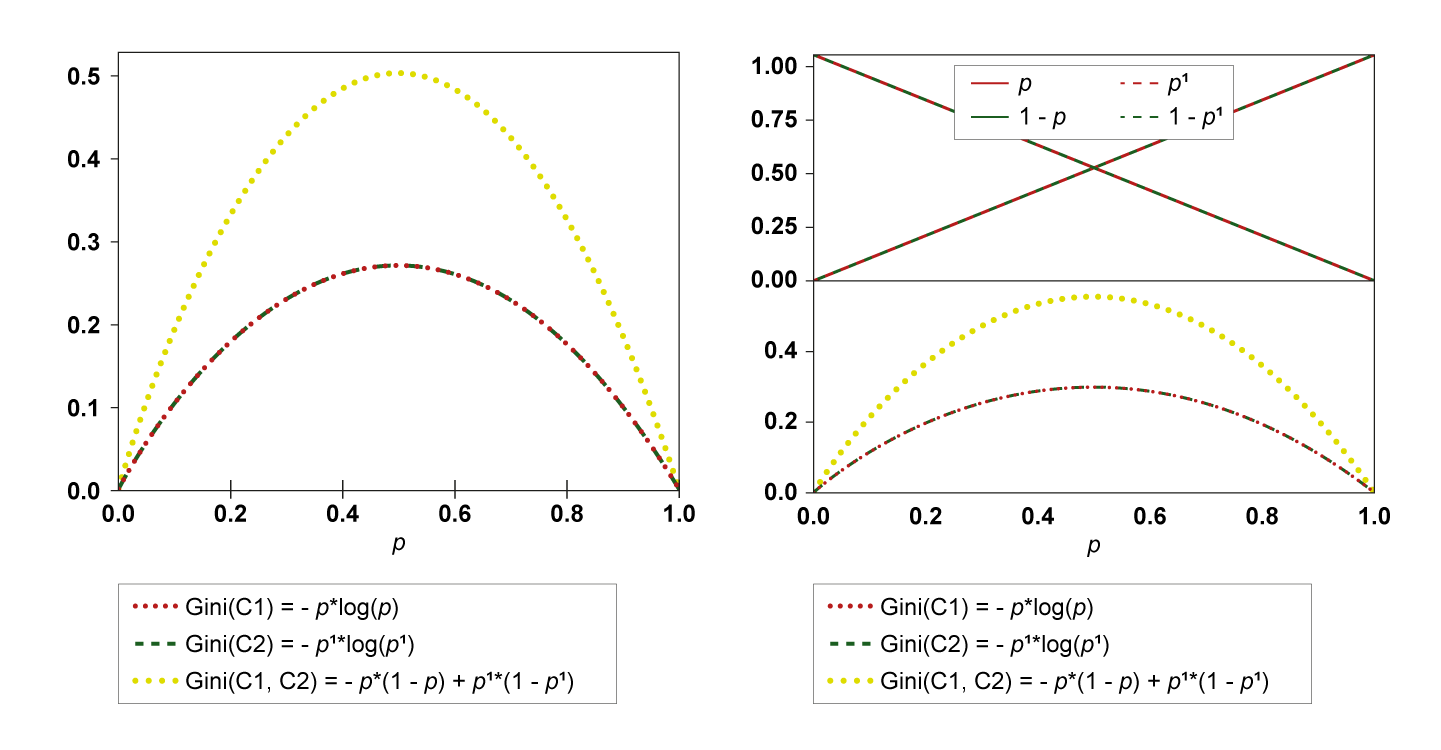
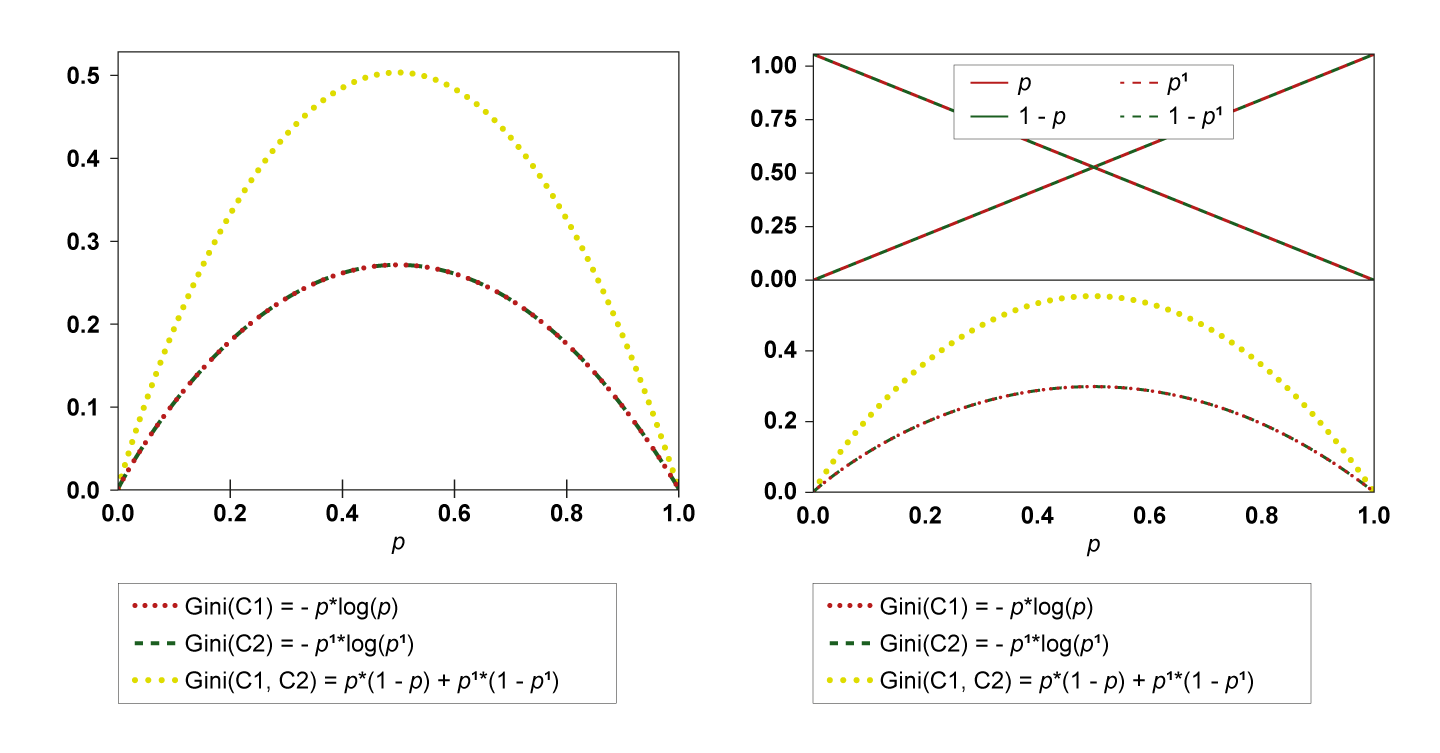
transcripts in units 3 and 4, unit 1 and 2 image fixes and done dones

diff --git a/overrides/main.html b/overrides/main.html
@@ -1,6 +1,6 @@
 {% extends "base.html" %}
 
 {% block announce %}
-    <div id="versionIndicator"><b>Version:</b> 05.11.21.a</div>
+    <div id="versionIndicator"><b>Version:</b> 12.11.21.a</div>
     <img id="customlogo" src="../../../img/logo.svg" alt="University of Leeds logo.">
 {% endblock %}

diff --git a/docs/content/unit3/03_01g_bisecting_K_means.md b/docs/content/unit3/03_01g_bisecting_K_means.md
@@ -55,12 +55,13 @@ Below in figure 3.11, we show results of bisecting K-means on the problem that w
 
 ##Agglomerative clustering
 
-<iframe title="Cluster analysis 2" width="450" height="300" frameborder="0" scrolling="auto" marginheight="0" marginwidth="0" src=" https://mymedia.leeds.ac.uk/Mediasite/Play/1bb96ffc6168418d83d6bb6fbe62b9de1d" allowfullscreen msallowfullscreen allow="fullscreen"></iframe>
+<iframe title="Cluster analysis 2" width="450" height="300" frameborder="0" scrolling="auto" marginheight="0" marginwidth="0" src=" https://mymedia.leeds.ac.uk/Mediasite/Play/2271688c6f5a48a080976624fc23fc921d" allowfullscreen msallowfullscreen allow="fullscreen"></iframe>
+
+<a href="https://minerva.leeds.ac.uk/bbcswebdav/xid-22866513_4" target="_blank">Download transcript (PDF).</a>
 
 You can download the <a href="https://minerva.leeds.ac.uk/bbcswebdav/xid-18826428_4" target="_blank">slides shown in the video.</a>
 
 Slides are reproduced from Tan et al (2019), <a href="https://www-users.cs.umn.edu/~kumar001/dmbook/index.php#item4" target="_blank">Introduction to Data Mining</a>, with kind permission of the authors.
-
 
 In partitional clustering techniques, such as the K-means, the clusters are assumed to be partitional, i.e. they are well-separated from each other. If they are not then the algorithm performance will be put under pressure and the results might not be satisfactory. This is one of the intrinsic limitations of such approaches.
 
@@ -132,6 +133,8 @@ Please refer to section 5.3 of Tan et al 2019.
 Evaluating clusters is an important step towards improving and comparing different clustering algorithms as well as to improve the obtained clusters. Mainly, we can adopt two approaches for cluster evaluation; supervised approach or unsupervised approach.
 
 <iframe title="Clusters part 3" width="450" height="300" frameborder="0" scrolling="auto" marginheight="0" marginwidth="0" src="https://mymedia.leeds.ac.uk/Mediasite/Play/2271688c6f5a48a080976624fc23fc921d" allowfullscreen msallowfullscreen allow="fullscreen"></iframe>
+
+<a href="https://minerva.leeds.ac.uk/bbcswebdav/xid-22866512_4" target="_blank">Download transcript (PDF).</a>
 
 You can download the <a href="https://minerva.leeds.ac.uk/bbcswebdav/xid-18826428_4" target="_blank">slides shown in the video (PPT)here</a>.
 

diff --git a/docs/content/unit4/04_01f_sgd_exercises.md b/docs/content/unit4/04_01f_sgd_exercises.md
@@ -33,9 +33,15 @@ You can download the spreadsheets Abdulrahman refers to in the videos below:
 
 <iframe title="video 6 (Example of a linear regression model, part 1) " width="450" height="300" frameborder="0" scrolling="auto" marginheight="0" marginwidth="0" src="https://mymedia.leeds.ac.uk/Mediasite/Play/031ebb9609ad4e4882c3f0ab85781e3e1d" allowfullscreen msallowfullscreen allow="fullscreen"></iframe>
 
+<a href="https://minerva.leeds.ac.uk/bbcswebdav/xid-22914403_4" target="_blank">Download transcript (PDF).</a>
+
  <iframe title="video 7 (Example of a linear regression model, part 2) " width="450" height="300" frameborder="0" scrolling="auto" marginheight="0" marginwidth="0" src="https://mymedia.leeds.ac.uk/Mediasite/Play/8d4658ebca5e45619f40502216b597ea1d" allowfullscreen msallowfullscreen allow="fullscreen"></iframe>
 
-<iframe title="video 8 (Example of a linear regression model, part 3" width="450" height="300" frameborder="0" scrolling="auto" marginheight="0" marginwidth="0" src="https://mymedia.leeds.ac.uk/Mediasite/Play/1d7e63fe54454aaaa93a7669c613a7e41d" allowfullscreen msallowfullscreen allow="fullscreen"></iframe>   
+ <a href="https://minerva.leeds.ac.uk/bbcswebdav/xid-22914404_4" target="_blank">Download transcript (PDF).</a>
+
+<iframe title="video 8 (Example of a linear regression model, part 3" width="450" height="300" frameborder="0" scrolling="auto" marginheight="0" marginwidth="0" src="https://mymedia.leeds.ac.uk/Mediasite/Play/1d7e63fe54454aaaa93a7669c613a7e41d" allowfullscreen msallowfullscreen allow="fullscreen"></iframe>
+
+<a href="https://minerva.leeds.ac.uk/bbcswebdav/xid-22914409_4" target="_blank">Download transcript (PDF).</a>  
 
 ##Simple linear regression models: lesson summary
 

diff --git a/docs/content/unit2/02_03_DT_vertebrate.md b/docs/content/unit2/02_03_DT_vertebrate.md
@@ -125,7 +125,7 @@ Table: Mammals class dataset with necessary and sufficient features.
 
 Watch this video to see how we can easily build a decision tree model in RapidMiner.
 
-<iframe title="DBuilding a decision tree in RapidMiner" width="450" height="300" frameborder="0" scrolling="auto" marginheight="0" marginwidth="0" src="https://mymedia.leeds.ac.uk/Mediasite/Play/74a17cc9f1914e38b34229bbd4a0c3ac1d" allowfullscreen msallowfullscreen
+<iframe title="DBuilding a decision tree in RapidMiner" width="450" height="300" frameborder="0" scrolling="auto" marginheight="0" marginwidth="0" src="https://mymedia.leeds.ac.uk/Mediasite/Play/c1f13a30982f4e99a3bcce27fd16e77d1d" allowfullscreen msallowfullscreen
  allow="fullscreen"></iframe>
 
 <a href="https://minerva.leeds.ac.uk/bbcswebdav/xid-22735112_4" target="_blank">Download transcript (PDF).</a>
@@ -175,7 +175,7 @@ So far we have seen how decision trees work and how they are inducted (trained).
 
 ![Scatter graph showing binary class balanced data with non-linearly separable decision boundaries quartiles. The two classes are distributed into four crossed quarters.](images/DS_IMG051.png)
 
-**Figure 2.37.** Scatter graph showing binary class balanced data with non-linearly separable decision boundaries quartiles. 
+**Figure 2.37.** Scatter graph showing binary class balanced data with non-linearly separable decision boundaries quartiles.
 
 ![Left: Scatter graph showing binary class balanced data with a linearly separable diagonal decision boundary. Right: Decision tree (DT) expected to concisely express binary class balanced data with a linearly separable diagonal decision boundary.](images/DS_IMG053+54.png)
 

diff --git a/docs/content/unit4/04_01c_loss_error_cos_function.md b/docs/content/unit4/04_01c_loss_error_cos_function.md
@@ -9,6 +9,8 @@ Watch the following video on loss function optimisation.
 <iframe title="Loss function for regression" width="450" height="300" frameborder="0" scrolling="auto" marginheight="0" marginwidth="0" src="https://mymedia.leeds.ac.uk/Mediasite/Play/9a4ab6335e684311b8fbfdd6b42bbc191d" allowfullscreen msallowfullscreen
  allow="fullscreen"></iframe>
 
+<a href="https://minerva.leeds.ac.uk/bbcswebdav/xid-22913894_4" target="_blank">Download transcript (PDF).</a>
+
 Download the following <a href="https://minerva.leeds.ac.uk/bbcswebdav/xid-19081102_4" target="_blank">powerpoint slides</a> used in the video for a summary of what we cover in this unit.
 
 ###Loss function for an individual point
@@ -167,6 +169,8 @@ The above approaches can be applied on any numerical machine learning technique 
 Please watch the following video on the least squares.
 
 <iframe title="Linear regression models" width="450" height="300" frameborder="0" scrolling="auto" marginheight="0" marginwidth="0" src="https://mymedia.leeds.ac.uk/Mediasite/Play/4fad0bce36ad461b8f3d0f950f94e4511d" allowfullscreen msallowfullscreen allow="fullscreen"></iframe>
+
+<a href="https://minerva.leeds.ac.uk/bbcswebdav/xid-22913897_4" target="_blank">Download transcript (PDF).</a>
 
 Download the following <a href="https://minerva.leeds.ac.uk/bbcswebdav/xid-19081102_4" target="_blank">powerpoint slides</a> used in the video for a summary of what we cover in this unit.
 

diff --git a/docs/content/unit4/04_01e_Gradient_decent.md b/docs/content/unit4/04_01e_Gradient_decent.md
@@ -10,6 +10,8 @@ Please watch the following video on gradient descent.
 
 <iframe title="Gradient descent" width="450" height="300" frameborder="0" scrolling="auto" marginheight="0" marginwidth="0" src="https://mymedia.leeds.ac.uk/Mediasite/Play/1306e0c0bf4746888652140ccedeac0b1d" allowfullscreen msallowfullscreen allow="fullscreen"></iframe>
 
+<a href="https://minerva.leeds.ac.uk/bbcswebdav/xid-22914201_4" target="_blank">Download transcript (PDF).</a>
+
 Download the following <a href="https://minerva.leeds.ac.uk/bbcswebdav/xid-19081102_4" target="_blank">powerpoint slides</a> used in the video for a summary of what we cover in this unit.
 
 Here we are talking about a minimum, often complex loss functions have several minima so we will come back to this idea later when we move to the non-linear models towards the end of the unit. We are taking small steps towards the minimum because taking large steps lead to overshooting the minimum or oscillating around it. The size of the step (denoted as $η$) is called the learning rate because it represents how fast a model can learn the solution of the problem. Gradient descent is a numerical optimisation technique so it is an iterative technique that keep working though iterations until it reaches a good enough approximate solution. Reaching a minimum is called **convergence** (a well known concept in calculus).

diff --git a/docs/content/unit1/01_01_what-is-data-science.md b/docs/content/unit1/01_01_what-is-data-science.md
@@ -202,6 +202,8 @@ Note that everything revolves around the data, which is central to the whole pro
 
 First watch the following video, in which Abdulrahman Altahhan introduces data science in more detail. Then move on to read about the different types of data mining tasks.
 
+VID-019:
+
 <p align="center"><iframe title="Data Science Introduction" width="450" height="300" frameborder="0" scrolling="auto" marginheight="0" marginwidth="0" src="https://mymedia.leeds.ac.uk/Mediasite/Play/89c81b0df9f8407786d7b8eea7fa93c01d" allowfullscreen msallowfullscreen allow="fullscreen"></iframe></p>
 
 You can also download the <a href="https://minerva.leeds.ac.uk/bbcswebdav/xid-18739454_4" target="_blank">slides shown in the video (PPT)</a> and the <a href="https://minerva.leeds.ac.uk/bbcswebdav/xid-18826023_4" target="_blank">transcript (PDF) here</a>.

diff --git a/docs/content/unit3/03_03_ensemble_methods.md b/docs/content/unit3/03_03_ensemble_methods.md
@@ -12,6 +12,8 @@ Watch this video to learn more about the concepts of ensemble methods.
 
 <iframe title="Ensemble techniques" width="450" height="300" frameborder="0" scrolling="auto" marginheight="0" marginwidth="0" src=" https://mymedia.leeds.ac.uk/Mediasite/Play/bb7cdadc4c234bd0be580d279c4f80c71d" allowfullscreen msallowfullscreen allow="fullscreen"></iframe>
 
+<a href="https://minerva.leeds.ac.uk/bbcswebdav/xid-22912989_4" target="_blank">Download transcript (PDF).</a>
+
 You can download the <a href="https://minerva.leeds.ac.uk/bbcswebdav/xid-18826426_4" target="_blank">slides shown in the video.</a>
 
 Slides are reproduced from Tan et al (2019), <a href="https://www-users.cs.umn.edu/~kumar001/dmbook/index.php#item4" target="_blank">Introduction to Data Mining</a>, with kind permission of the authors.

diff --git a/docs/content/unit3/03_01c_clusters_loss_function.md b/docs/content/unit3/03_01c_clusters_loss_function.md
@@ -4,6 +4,8 @@ In the following video, Abdulrahman explains the clusters loss function.
 
 <iframe title="Cluster analysis 1" width="450" height="300" frameborder="0" scrolling="auto" marginheight="0" marginwidth="0" src=" https://mymedia.leeds.ac.uk/Mediasite/Play/ebef1d39bfeb489f8f3645cd19d9e5411d" allowfullscreen msallowfullscreen allow="fullscreen"></iframe>
 
+<a href="https://minerva.leeds.ac.uk/bbcswebdav/xid-22912092_4" target="_blank">Download transcript (PDF).</a>
+
 You can download the <a href="https://minerva.leeds.ac.uk/bbcswebdav/xid-18826428_4" target="_blank">slides shown in the video.</a>
 
 Slides are reproduced from Tan et al (2019), <a href="https://www-users.cs.umn.edu/~kumar001/dmbook/index.php#item4" target="_blank">Introduction to Data Mining</a>, with kind permission of the authors.

diff --git a/docs/content/unit4/04_01b_example_linear_regression.md b/docs/content/unit4/04_01b_example_linear_regression.md
@@ -201,4 +201,6 @@ Watch the following video on the concepts of regression.
 <iframe title="Linear and non-Linear Models for Regression" width="450" height="300" frameborder="0" scrolling="auto" marginheight="0" marginwidth="0" src="https://mymedia.leeds.ac.uk/Mediasite/Play/bb75e23264d641bcb3c1902cd95434fc1d" allowfullscreen msallowfullscreen
  allow="fullscreen"></iframe>
 
+<a href="https://minerva.leeds.ac.uk/bbcswebdav/xid-22913188_4" target="_blank">Download transcript (PDF).</a>
+
 Download the following <a href="https://minerva.leeds.ac.uk/bbcswebdav/xid-19081102_4" target="_blank">powerpoint slides</a> used in the video for a summary of what we cover in this unit.
